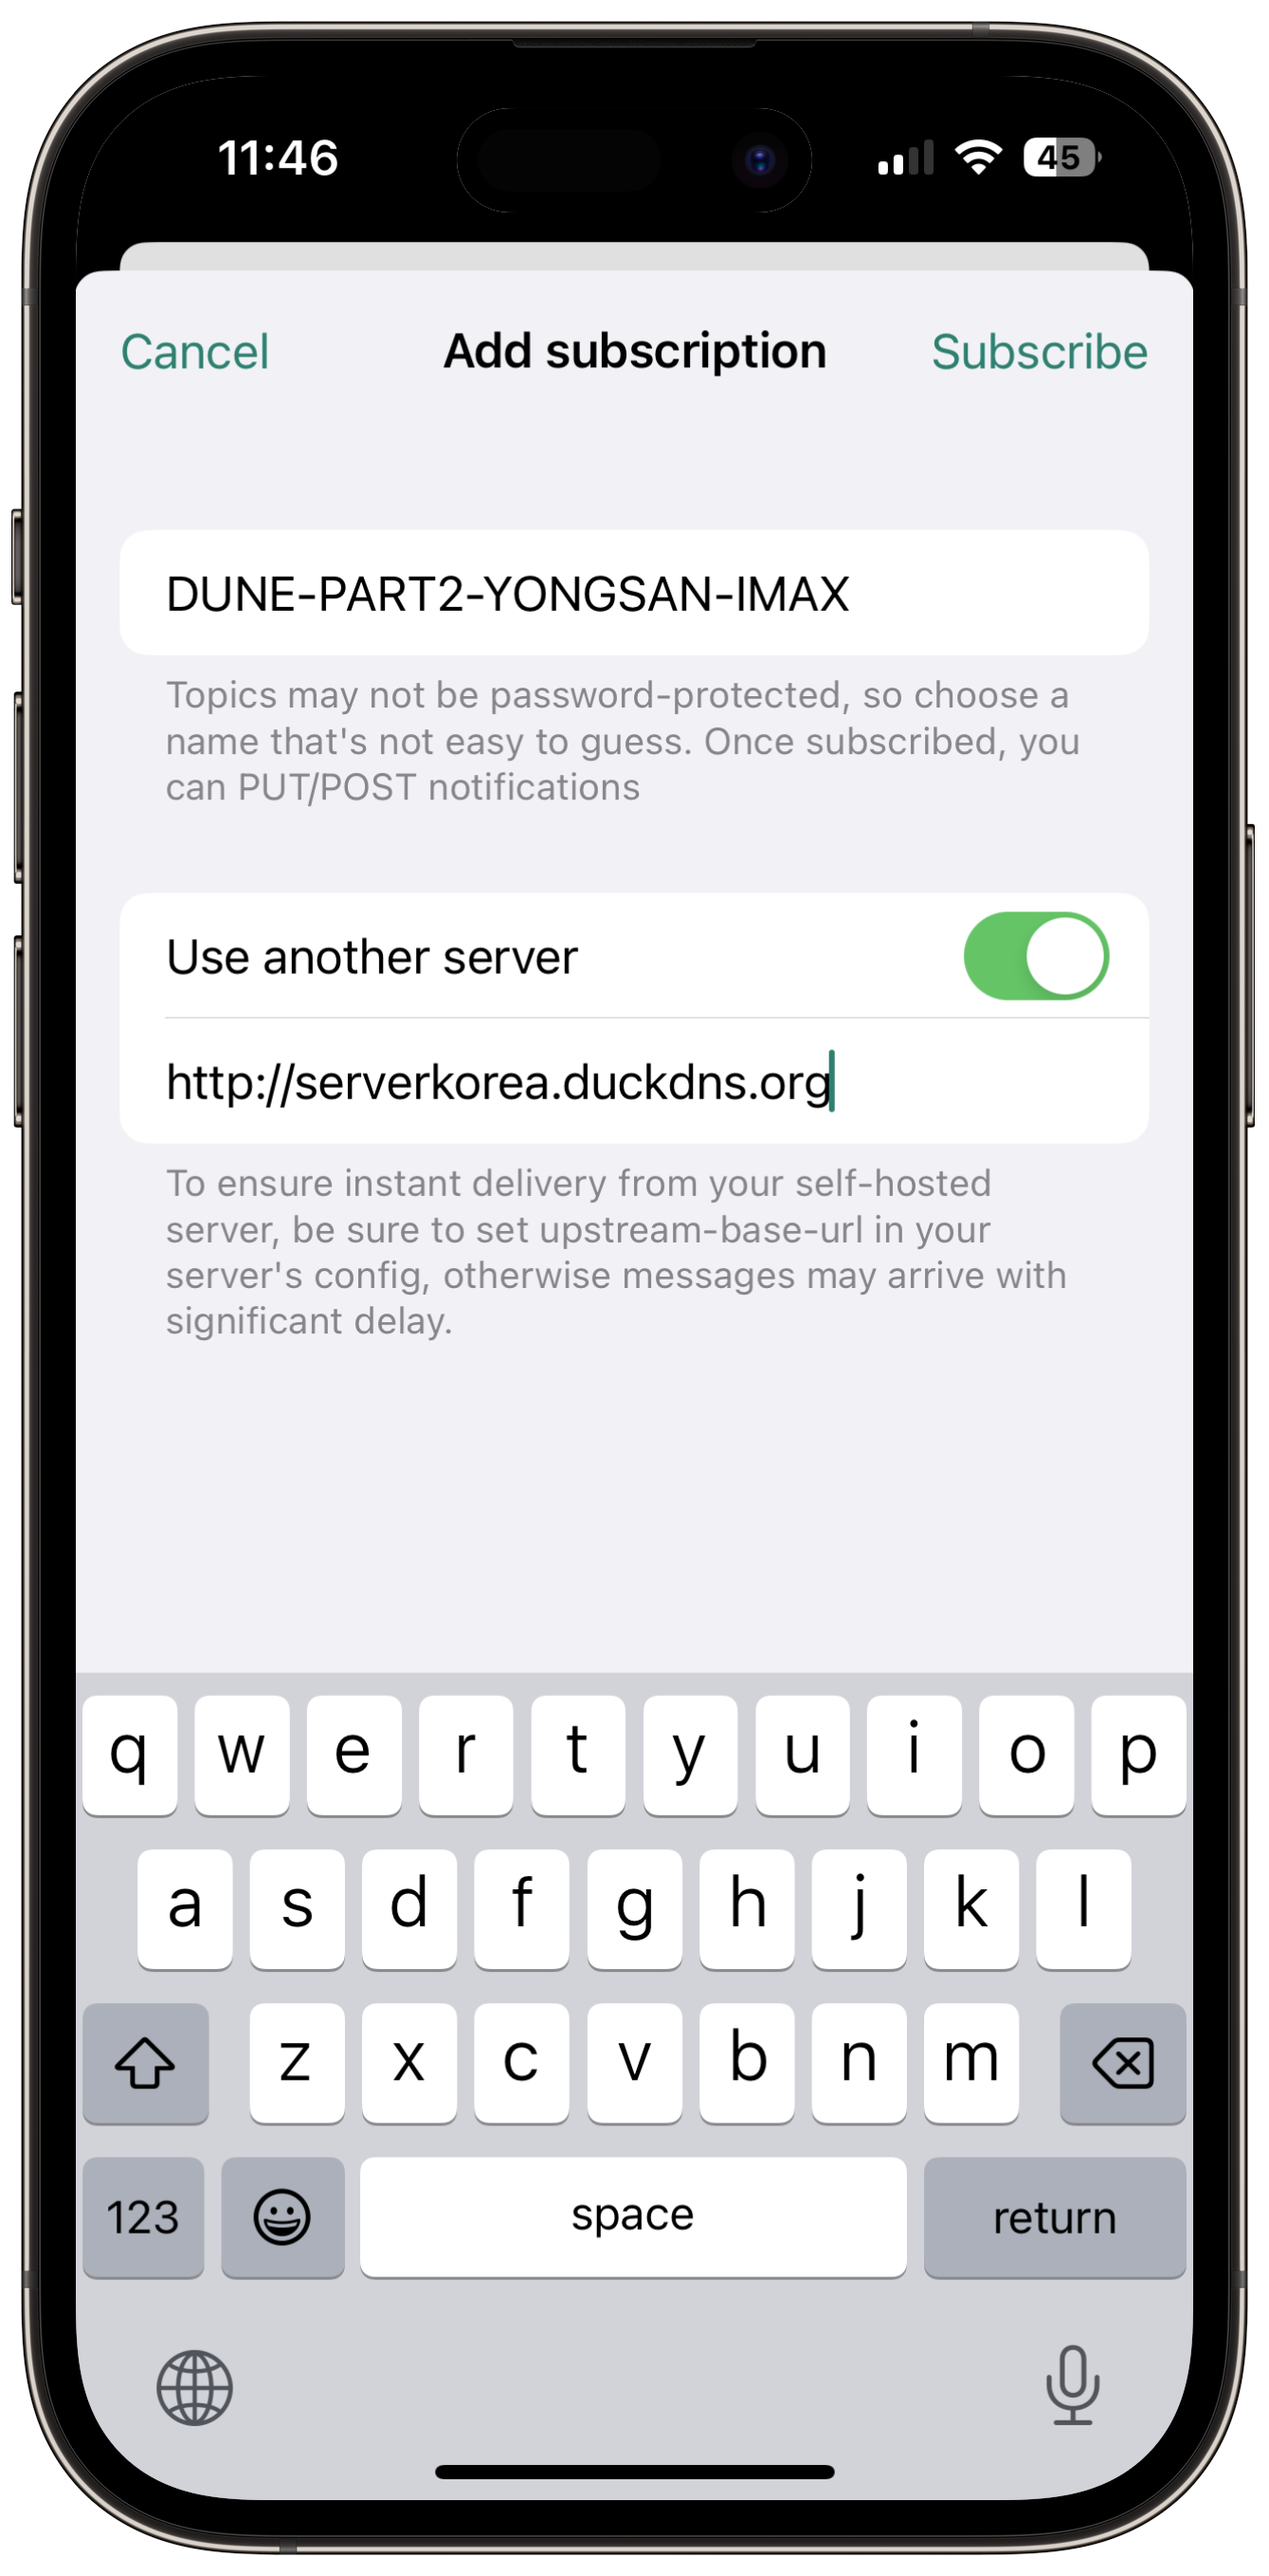
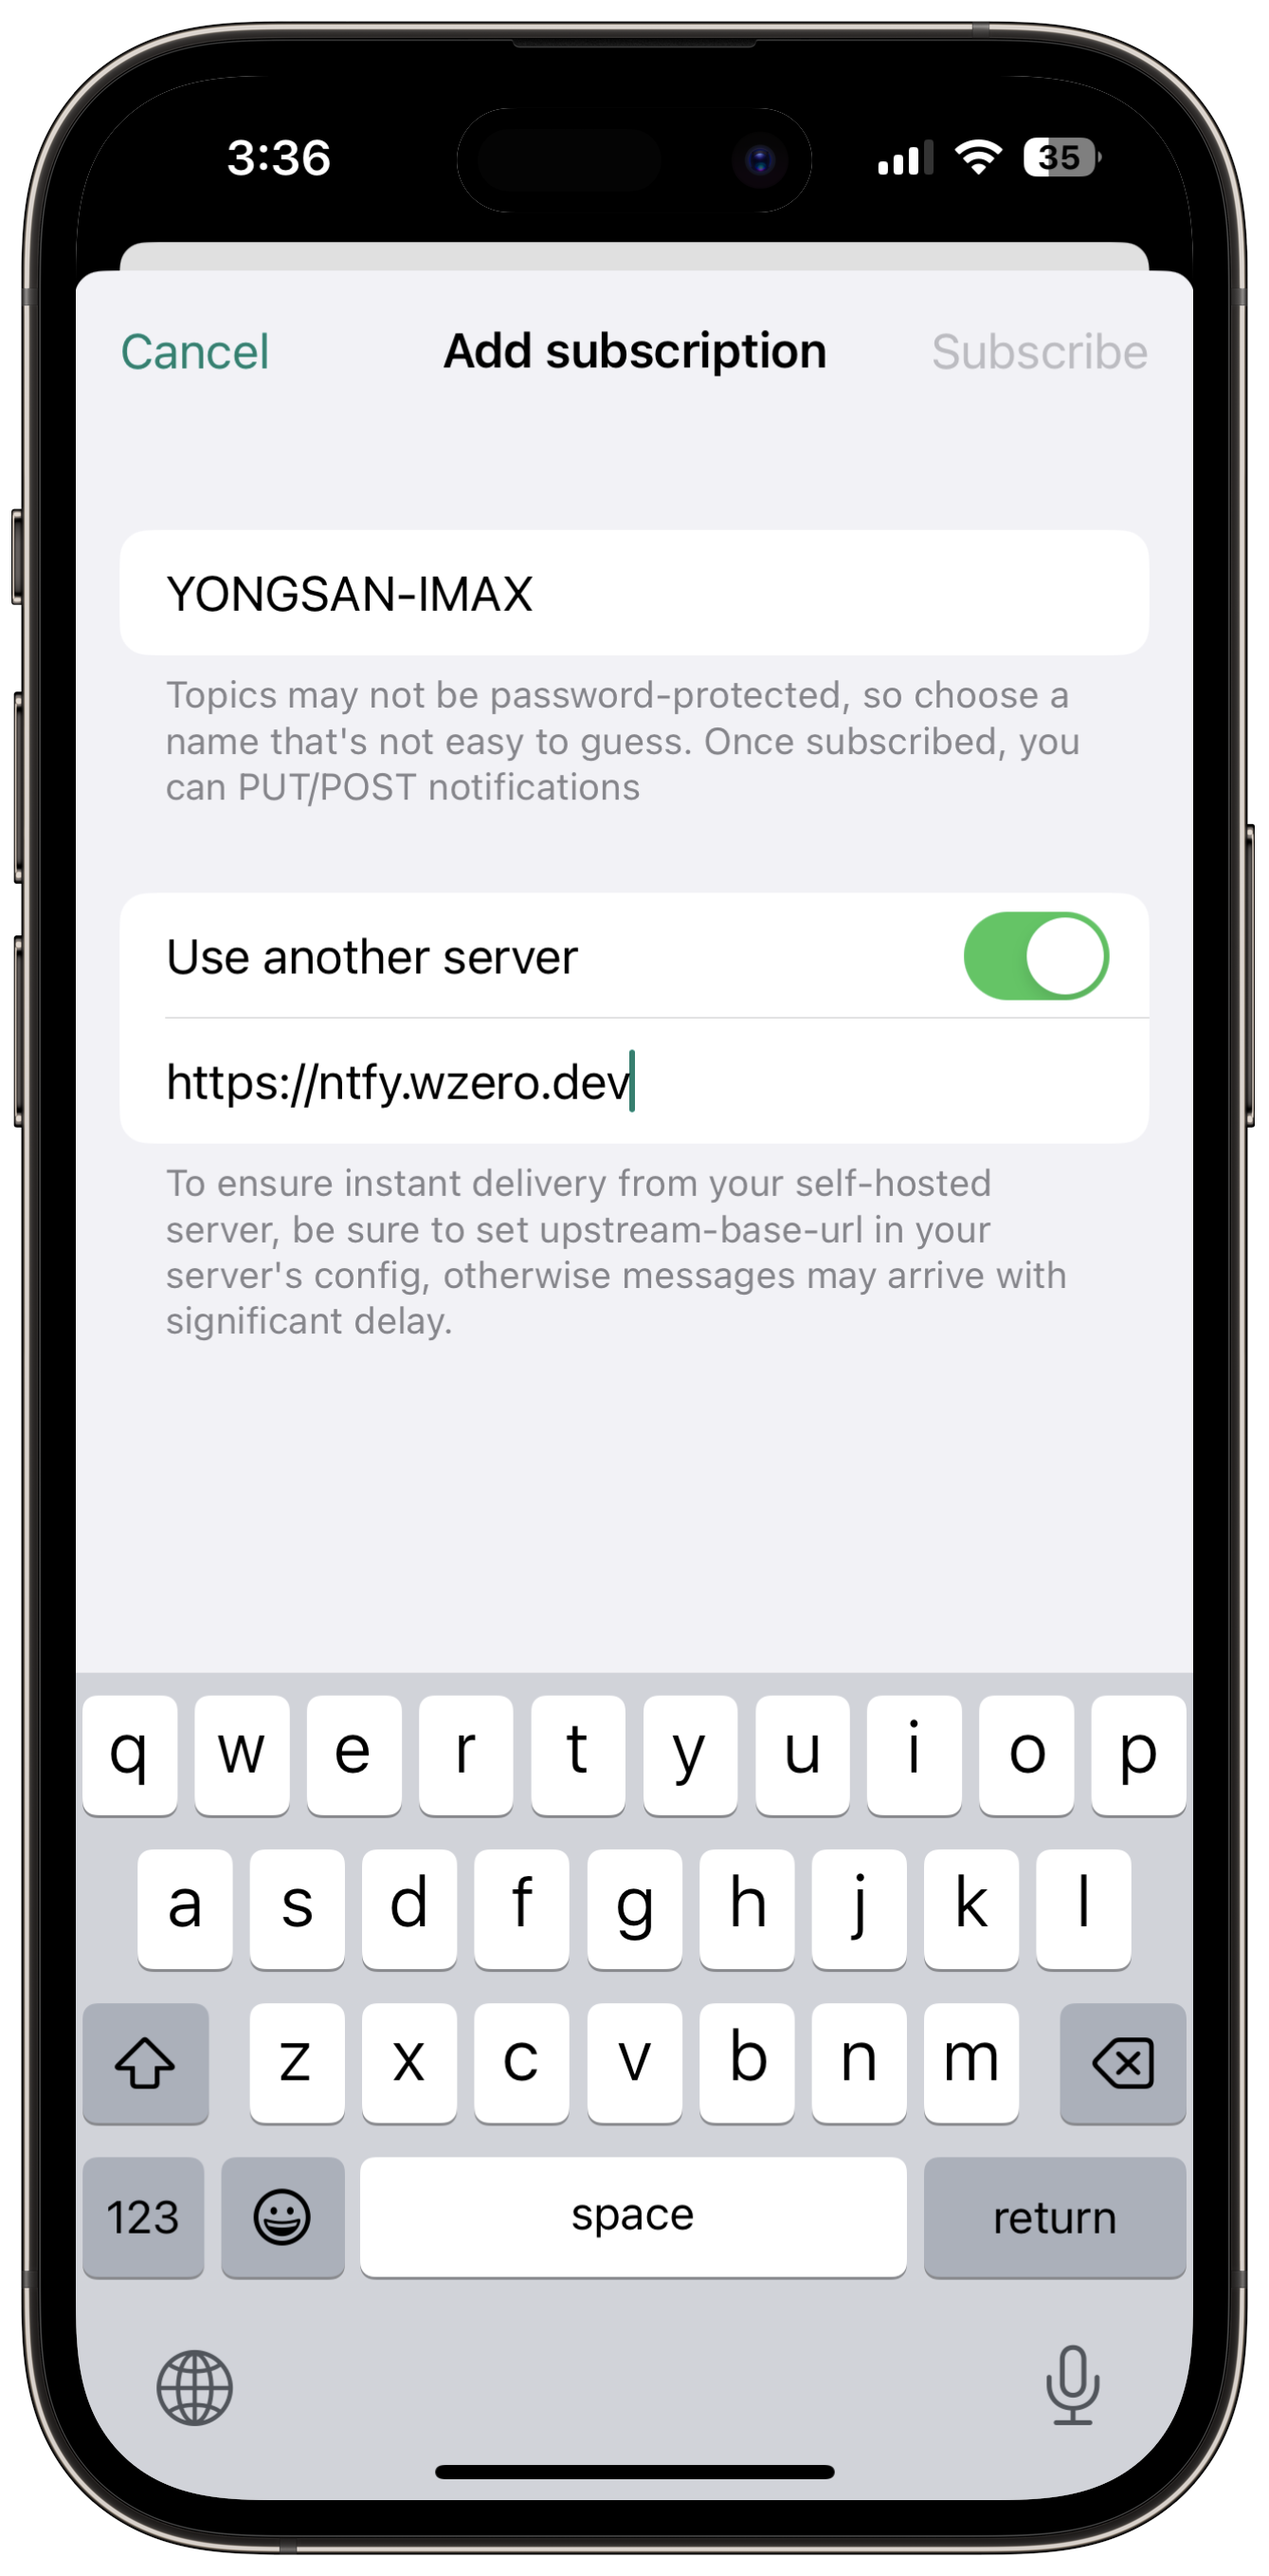
UPDATE README.md 서버 이전 안내 및 그에 따른 변경사항 수정.

diff --git a/README.md b/README.md
@@ -15,7 +15,7 @@ By_0w0i0n0g0
 
 ### [작동 여부 확인 페이지](https://stats.uptimerobot.com/dr29M3hiXt)
 
-###  [서버 로그 및 통계 페이지](http://serverkorea.duckdns.org:5000)
+###  [서버 로그 및 상태 확인 페이지](https://cgv-open-push.wzero.dev)
 
 </div>
 
@@ -24,23 +24,37 @@ By_0w0i0n0g0
 
 ### 📢 알림
 
-CGV의 서버 쪽 제한으로 인해 최대 __5분__ 간의 알림 지연이 생길 수 있습니다. 양해 부탁드립니다.
+__꼭 읽어주세요!__
+
+2024/06/03부로 __서버 이전__ 되었습니다.
+
+이에 따라 ntfy 도메인이 __https://ntfy.wzero.dev__ 로 변경되었습니다.
+
+이전 구독들은 모두 삭제하고, 아래 [ 🔔 알림 받는 방법! ] 에 따라서 다시 구독해주세요!
+
+이전 도메인 http://serverkorea.duckdns.org 는 유예기간 후 2024/06/05 중에 서비스가 종료됩니다.
 
 <br>
 
-### 🔎 현재 예매 오픈 알리미가 지켜보고 있는 영화는? (2024/05/18 기준)
+### 🔎 현재 예매 오픈 알리미가 지켜보고 있는 영화는? (2024/06/03 기준)
 
 - 용아맥 예매 오픈 알리미
 - 용포디 예매 오픈 알리미
 - 극장판하이큐!!쓰레기장의결전 / 용산아이파크몰 / IMAX 관
-- 혹성탈출-새로운시대 / 용산아이파크몰 / IMAX 관
 - 퓨리오사-매드맥스사가 / 용산아이파크몰 / IMAX 관
+- 나쁜녀석들-라이드오어다이 / 용산아이파크몰 / IMAX 관
 
 <br>
 
-### 최근 업데이트 내역
+### 📄 최근 업데이트 내역
 
-용산아이파크몰 4DX관(용포디) 예매 오픈 알리미가 추가되었습니다.
+[2024/06/03] 서버 이전 및 도메인 변경되었습니다.
+
+[2024/06/03] 나쁜녀석들-라이드오어다이 / 용산아이파크몰 / IMAX 관 예매 오픈 알리미가 추가되었습니다.
+
+[2024/06/03] 혹성탈출-새로운시대 / 용산아이파크몰 / IMAX 관 예매 오픈 알리미가 삭제되었습니다.
+
+[2024/05/18] 용산아이파크몰 4DX관(용포디) 예매 오픈 알리미가 추가되었습니다.
 
 <br>
 
@@ -53,7 +67,7 @@ https://github.com/0w0i0n0g0/cgv-open-push/issues
 
 ## 🔔 알림 받는 방법!
 
-### 먼저 ntfy 앱을 다운받으세요.
+### ntfy 앱을 다운받으세요.
 
 - [구글 플레이스토어](https://play.google.com/store/apps/details?id=io.heckel.ntfy)
 
@@ -65,9 +79,9 @@ https://github.com/0w0i0n0g0/cgv-open-push/issues
 
 ### 구독을 추가하세요.
 
-알림을 받기 위해 ```Add subscription```을 눌러 구독을 추가해야 해요.
+알림을 받기 위해 ```Add subscription``` 을 눌러 구독을 추가해야 해요.
 
-먼저 밑의 예시와 같이 ```Topic name```에 밑의 **구독 리스트** 중에서 알림받고 싶은 것을 골라 입력해주세요. 
+먼저 밑의 예시와 같이 ```Topic name``` 에 아래의 **구독 리스트** 중에서 알림받고 싶은 것을 골라 입력해주세요. 
 
 > 정확히 입력해야 합니다.
 
@@ -83,7 +97,7 @@ https://github.com/0w0i0n0g0/cgv-open-push/issues
 
 ---
 
-1. #### 용아맥 예매 오픈 알리미
+- **용아맥 예매 오픈 알리미**
 
 이 구독은 용아맥에 새로운 영화가 등록되거나, 새 날짜의 예매가 오픈되었을 때 알려줍니다!
 
@@ -97,7 +111,7 @@ YONGSAN-IMAX
 
 <br>
 
-2. #### 용포디 예매 오픈 알리미
+- **용포디 예매 오픈 알리미**
 
 이 구독은 용포디에 새로운 영화가 등록되거나, 새 날짜의 예매가 오픈되었을 때 알려줍니다!
 
@@ -111,7 +125,7 @@ YONGSAN-4DX
 
 <br>
 
-3. #### 극장판하이큐!!쓰레기장의결전 / 용산아이파크몰 / IMAX 관
+- **극장판하이큐!!쓰레기장의결전 / 용산아이파크몰 / IMAX 관**
 
 ```
 HAIKU-YONGSAN-IMAX
@@ -121,20 +135,20 @@ HAIKU-YONGSAN-IMAX
 
 <br>
 
-4. #### 혹성탈출-새로운시대 / 용산아이파크몰 / IMAX 관
+- **퓨리오사-매드맥스사가 / 용산아이파크몰 / IMAX 관**
 
 ```
-APES-YONGSAN-IMAX
+FURIOSA-YONGSAN-IMAX
 ```
 
 > 복사 붙여넣기 해주세요.
 
 <br>
 
-5. #### 퓨리오사-매드맥스사가 / 용산아이파크몰 / IMAX 관
+- **나쁜녀석들-라이드오어다이 / 용산아이파크몰 / IMAX 관**
 
 ```
-FURIOSA-YONGSAN-IMAX
+BADBOYS-YONGSAN-IMAX
 ```
 
 > 복사 붙여넣기 해주세요.
@@ -143,22 +157,23 @@ FURIOSA-YONGSAN-IMAX
 
 <br>
 
+### 서버를 설정하세요.
 
-그리고 다음과 같이 ```Use another server```를 활성화 후, ```Service URL```에
+```Topic name```을 입력했다면, 아래에 토글 버튼을 눌러서 다음과 같이 ```Use another server``` 를 활성화 후, ```Service URL``` 에
 
 ```
-http://serverkorea.duckdns.org
+https://ntfy.wzero.dev
 ```
 
 > 복사 붙여넣기 해주세요.
 
-를 입력해주세요.
+를 입력하고, ```Subscribe``` 버튼을 눌러주세요.
 
 <p align="center">
   <img src="./img/use-another-server.png" width="300"/>
 </p>
 
-> 만약 오류메세지가 뜨면서 실패하게 된다면 조금 기다린 후 다시 시도해주세요. 개인 서버로 운영 중이여서 24시간 정상작동을 보장할 수 없습니다.
+> 만약 오류메세지가 뜨면서 실패하게 된다면 조금 기다린 후 다시 시도해주세요. 해당 서비스는 개인 서버로 운영 중으로, 24시간 정상작동을 보장할 수 없습니다.
 
 <br>
 <br>
@@ -169,7 +184,7 @@ __도움이 되었다면 Star⭐를 눌러주세요. 큰 도움이 됩니다!__
 
 <br>
 
-### 알람은 이렇게 와요.
+### 알림은 이렇게 와요.
 
 
 <p align="center">
@@ -195,13 +210,13 @@ __도움이 되었다면 Star⭐를 눌러주세요. 큰 도움이 됩니다!__
 
 ## 사용 전 반드시 읽어주세요.
 
--  CGV 예매 오픈 알리미는 CGV의 특정 영화관, 특정 영화의 상영 일정을 ~~5초~~5분마다 갱신하여 변동사항을 확인하고, 변동사항이 발생된다면 ntfy를 통해 구독자들에게 푸시 알림을 전송합니다.
+-  CGV 예매 오픈 알리미는 CGV의 특정 영화관, 특정 영화의 상영 일정을 5분마다 갱신하여 변동사항을 확인하고, 변동사항이 발생된다면 ntfy를 통해 구독자들에게 푸시 알림을 전송합니다.
 
 - 서버의 원활한 작동을 위해 해외 IP 및 과도한 트래픽을 발생시키는 IP의 접속을 임의 차단하고 있습니다.
 
-- 이 소프트웨어는 ntfy를 통해 구독자에게 알림을 전송하기 위한 정보를 제외하고 사용자를 특정할 수 있는 형태의 개인정보를 저장하거나 업로드하지 않습니다.
+- 이 서비스는 ntfy를 통해 구독자에게 알림을 전송하기 위한 정보를 제외하고 사용자를 특정할 수 있는 형태의 개인정보를 저장하거나 업로드하지 않습니다.
 
-- 이 소프트웨어는 CGV와 어떠한 협의없이 제작되었으며, 인터넷을 통해 모두가 접근 가능하고 공개된 경로로만 정보를 취득합니다.
+- 이 서비스는 CGV와 어떠한 협의없이 제작되었으며, 인터넷을 통해 모두가 접근 가능하고 공개된 경로로만 정보를 취득합니다.
 
 - 이 소프트웨어는 [**AGPL-3.0 license**](https://github.com/0w0i0n0g0/cgv-open-push/blob/main/LICENSE)로 배포되었습니다. 따라서 이 소프트웨어를 포함하거나 소스코드의 일부분을 사용, 수정, 2차 가공, 재배포할 때 해당 라이센스의 내용을 지켜주시기 바랍니다.
 
@@ -211,50 +226,32 @@ __도움이 되었다면 Star⭐를 눌러주세요. 큰 도움이 됩니다!__
 ## Features
 
 - Send Push Notification
-  - http://serverkorea.duckdns.org/{target_name}
+  - https://ntfy.wingzero.dev/{target_name}
     - Push notification when new date detected from *target_name*.
 
 - Health Check
-  - http://serverkorea.duckdns.org:5000
+  - https://cgv-open-push.wingzero.dev
     - Server status
-  - http://ntfy.sh/CGVOPENPUSHSERVER
-  - http://serverkorea.duckdns.org/SERVER
+  - https://ntfy.sh/CGVOPENPUSHSERVER
+  - https://ntfy.wingzero.dev/SERVER
     - Push notification when server start, end and error.
 
-- Server Port
-  - Internal
-    - http://192.168.0.17 : nginx
-    - http://192.168.0.17/monitoring : eZ Server monitor
-    - http://192.168.0.17:9999 : private ntfy server
-    - http://192.168.0.17:9090 : metrics
-    - http://192.168.0.17:3000 : Grafana
-    - http://192.168.0.17:9010 : Prometheus
-    - http://192.168.0.17:5000 : Server status
-  - External
-    - http://serverkorea.duckdns.org : private ntfy server
-    - http://serverkorea.duckdns.org:5000 : Server status
+- Docker Compose
+```yaml
+version: "3"
 
-- Logging
-  - cgv-open-push.log
-    - maxBytes=5\*1024\*1024, backupCount=3, encoding='utf-8'
-
-- Testing
-  - cgv_open_push_test.py
-    - test_send_curl_to_cgv_multiple
-    - test_send_ntfy_push_health_check
-
-- Autostart after Boot
-  - sudo nano /etc/xdg/lxsession/LXDE-pi/autostart
-    - @bash /home/pi/afterstart.sh
-  - afterstart.sh
-
-```bash
-#!/bin/bash
-python cgv_open_push_main.py &
-python cgv_open_push_status.py &
-echo 'raspberry' | sudo -S ntfy serve
-cd prometheus
-./prometheus --web.listen-address=:9010
+services:
+  cgv-open-push:
+    image: 0w0i0n0g0/cgv-open-push:latest
+    container_name: cgv-open-push
+    environment:
+      TZ: "Asia/Seoul"
+      NTFY_TOKEN: "Bearer tk_abcdefghijklmnopqrstuvwxyz"
+      PRIVATE_NTFY_SERVER_ADDRESS: "https://ntfy.wzero.dev"
+      PRIVATE_NTFY_PROMETHEUS_ADDRESS: "https://ntfy.wzero.dev/metrics"
+    ports:
+      - "10004:5000"
+    restart: unless-stopped
 ```
 
 <br>
